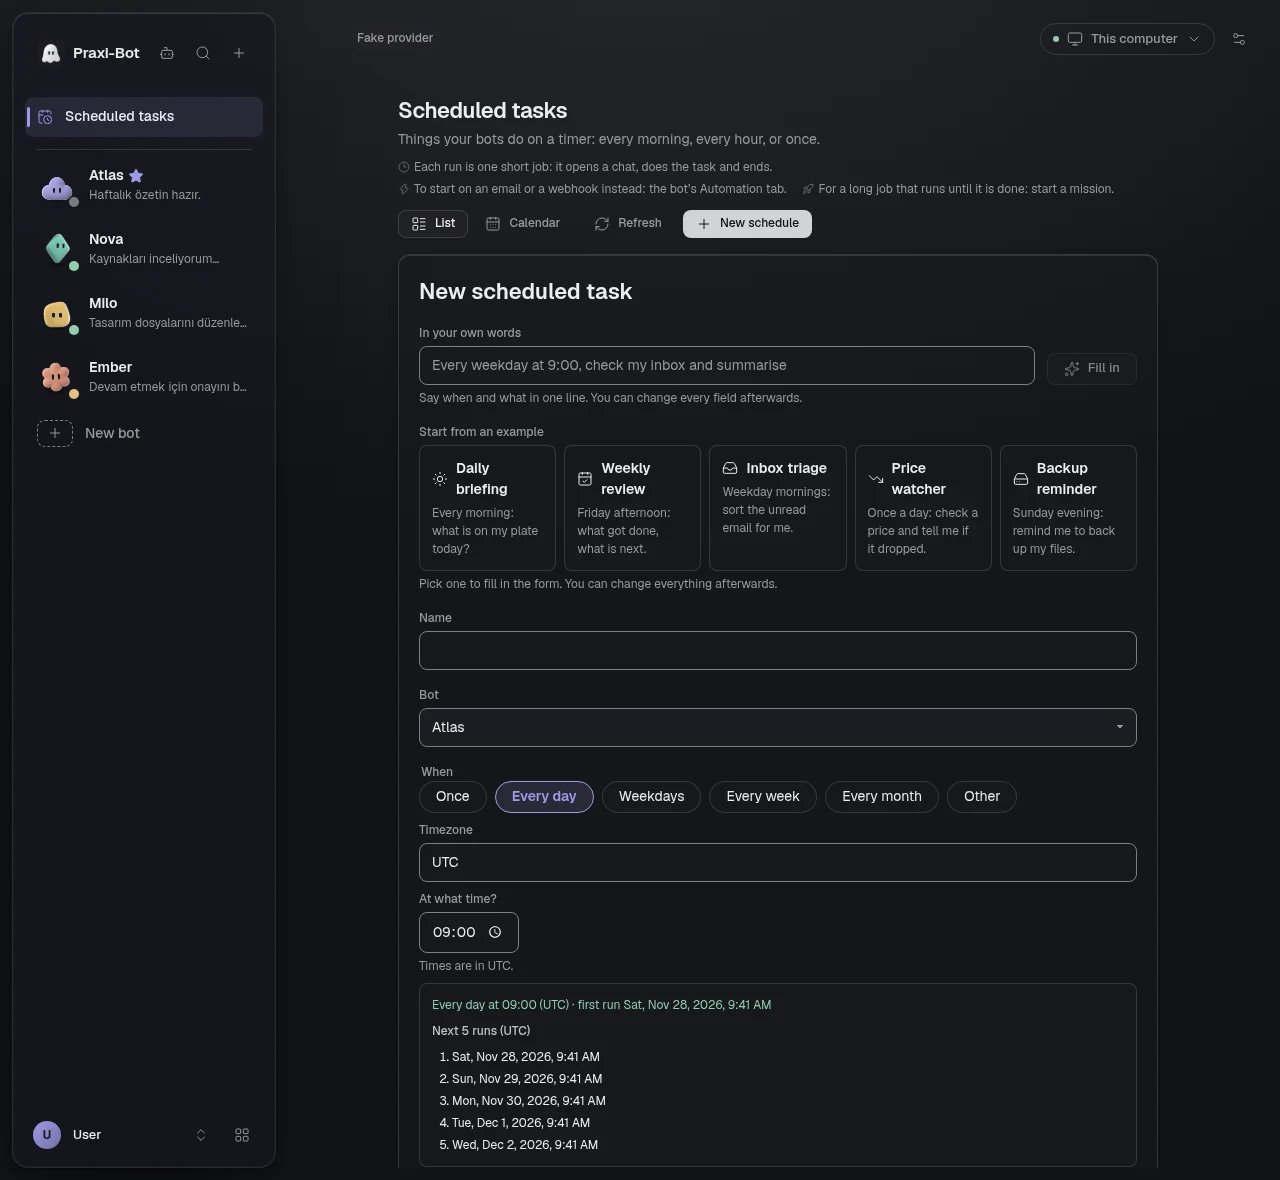
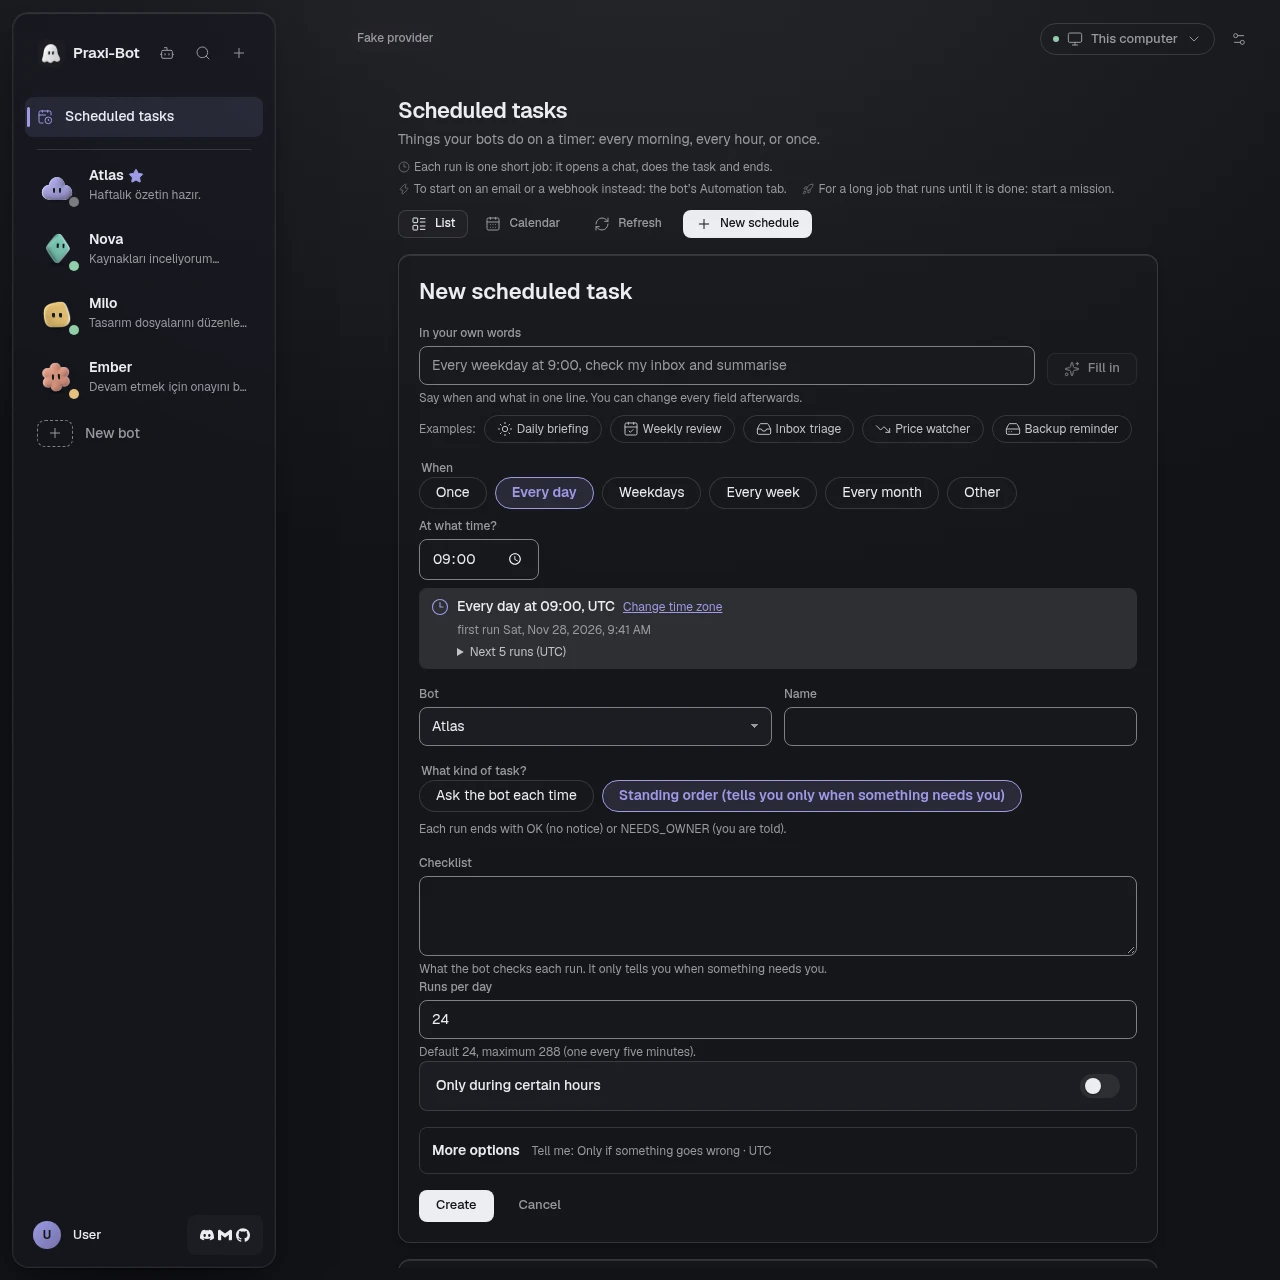
fix(standing-order): close active-hours bypass and align editor validation
Webhooks and non-owner run-now respect standing active hours; only owner run-now may bypass them while the daily cap still applies. UI validation, a11y, and guide screenshots match the backend.

diff --git a/apps/desktop/ui/src/views/SchedulesView.tsx b/apps/desktop/ui/src/views/SchedulesView.tsx
@@ -34,7 +34,7 @@ import type {
   ScheduleHistoryEntry
 } from "../api/types";
 import { EmptyState } from "../components/EmptyState";
-import { Switch } from "../components/SettingsUi";
+import { Switch, SwitchField } from "../components/SettingsUi";
 import formStyles from "../components/Form.module.css";
 import { botHasFullAccess, botView } from "../lib/botProfile";
 import { POLICY_CHANGED_EVENT } from "./settings/SafetyLevelsCard";
@@ -125,13 +125,17 @@ function TimezonePicker({
   value,
   allowEmpty,
   inputRef,
-  onChange
+  onChange,
+  ariaLabel,
+  testId = "schedule-tz"
 }: {
   inputRef?: Ref<HTMLInputElement>;
   value: string;
   /** `true`: an empty field means UTC (a 5-field cron). */
   allowEmpty: boolean;
   onChange: (tz: string) => void;
+  ariaLabel?: string;
+  testId?: string;
 }) {
   const { t } = useTranslation();
   const listId = useId();
@@ -150,10 +154,10 @@ function TimezonePicker({
         value={text}
         spellCheck={false}
         autoComplete="off"
-        aria-label={t("schedules.form.tz")}
+        aria-label={ariaLabel ?? t("schedules.form.tz")}
         aria-invalid={!valid}
         placeholder={t("schedules.form.tzSearch")}
-        data-testid="schedule-tz"
+        data-testid={testId}
         onChange={(e) => {
           setText(e.target.value);
           const v = e.target.value.trim();
@@ -1759,7 +1763,7 @@ function ScheduleForm({
                 <span className={formStyles.hint}>{t("schedules.form.promptHint")}</span>
               </label>
             ) : (
-              <div className={styles.formPair} data-testid="schedule-standing-fields">
+              <div data-testid="schedule-standing-fields">
                 <label className={formStyles.field}>
                   <span className={formStyles.label}>{t("schedules.form.standing.checklist")}</span>
                   <textarea
@@ -1772,41 +1776,36 @@ function ScheduleForm({
                   />
                   <span className={formStyles.hint}>{t("schedules.form.standing.checklistHint")}</span>
                 </label>
-                <div className={styles.formPair}>
-                  <label className={formStyles.field}>
-                    <span className={formStyles.label}>{t("schedules.form.standing.maxRuns")}</span>
-                    <input
-                      className={formStyles.input}
-                      type="number"
-                      min={1}
-                      max={288}
-                      value={draft.standing.maxRunsPerDay}
-                      data-testid="schedule-standing-max-runs"
-                      onChange={(e) =>
-                        patch({
-                          standing: {
-                            ...draft.standing,
-                            maxRunsPerDay: Number(e.target.value)
-                          }
-                        })
-                      }
-                    />
-                    <span className={formStyles.hint}>{t("schedules.form.standing.maxRunsHint")}</span>
-                  </label>
-                  <label className={formStyles.field}>
-                    <span className={formStyles.label}>
-                      <Switch
-                        checked={draft.standing.activeHoursEnabled}
-                        label={t("schedules.form.standing.activeHours")}
-                        onChange={(checked) =>
-                          patch({
-                            standing: { ...draft.standing, activeHoursEnabled: checked }
-                          })
+                <label className={formStyles.field}>
+                  <span className={formStyles.label}>{t("schedules.form.standing.maxRuns")}</span>
+                  <input
+                    className={formStyles.input}
+                    type="number"
+                    min={1}
+                    max={288}
+                    value={draft.standing.maxRunsPerDay}
+                    data-testid="schedule-standing-max-runs"
+                    onChange={(e) =>
+                      patch({
+                        standing: {
+                          ...draft.standing,
+                          maxRunsPerDay: Number(e.target.value)
                         }
-                      />
-                    </span>
-                  </label>
-                </div>
+                      })
+                    }
+                  />
+                  <span className={formStyles.hint}>{t("schedules.form.standing.maxRunsHint")}</span>
+                </label>
+                <SwitchField
+                  checked={draft.standing.activeHoursEnabled}
+                  label={t("schedules.form.standing.activeHours")}
+                  testId="schedule-standing-active-hours"
+                  onChange={(checked) =>
+                    patch({
+                      standing: { ...draft.standing, activeHoursEnabled: checked }
+                    })
+                  }
+                />
                 {draft.standing.activeHoursEnabled ? (
                   <div className={styles.formPair}>
                     <label className={formStyles.field}>
@@ -1844,6 +1843,8 @@ function ScheduleForm({
                       <TimezonePicker
                         value={draft.standing.activeHoursTz}
                         allowEmpty={false}
+                        ariaLabel={t("schedules.form.standing.hoursZone")}
+                        testId="schedule-standing-tz"
                         onChange={(tz) =>
                           patch({ standing: { ...draft.standing, activeHoursTz: tz || LOCAL_TZ } })
                         }

diff --git a/apps/desktop/ui/src/lib/standingOrder.ts b/apps/desktop/ui/src/lib/standingOrder.ts
@@ -1,7 +1,10 @@
 /** Standing-order helpers for the schedule editor (mirrors scheduler payload rules). */
 
+import { isTimeZoneName } from "./schedules.ts";
+
 export const DEFAULT_MAX_RUNS_PER_DAY = 24;
 export const MAX_RUNS_PER_DAY = 288;
+export const MAX_CHECKLIST_CHARS = 4000;
 
 export interface StandingActiveHours {
   start: string;
@@ -70,23 +73,24 @@ export function standingFromPayload(
 }
 
 export function validateStanding(fields: StandingOrderFields): StandingDraftError | null {
-  if (fields.checklist.trim() === "") return "checklist";
+  const checklist = fields.checklist.trim();
+  if (checklist === "") return "checklist";
+  if (checklist.length > MAX_CHECKLIST_CHARS) return "checklist";
   if (
-    !Number.isFinite(fields.maxRunsPerDay) ||
+    !Number.isInteger(fields.maxRunsPerDay) ||
     fields.maxRunsPerDay < 1 ||
     fields.maxRunsPerDay > MAX_RUNS_PER_DAY
   ) {
     return "maxRuns";
   }
   if (!fields.activeHoursEnabled) return null;
-  if (parseHhmm(fields.activeHoursStart) === null) return "hoursStart";
-  if (parseHhmm(fields.activeHoursEnd) === null) return "hoursEnd";
-  if (fields.activeHoursStart === fields.activeHoursEnd) return "hoursEnd";
-  try {
-    new Intl.DateTimeFormat("en", { timeZone: fields.activeHoursTz.trim() });
-  } catch {
-    return "hoursTz";
-  }
+  const start = fields.activeHoursStart.trim();
+  const end = fields.activeHoursEnd.trim();
+  if (parseHhmm(start) === null) return "hoursStart";
+  if (parseHhmm(end) === null) return "hoursEnd";
+  if (start === end) return "hoursEnd";
+  const tz = fields.activeHoursTz.trim();
+  if (tz === "" || !isTimeZoneName(tz)) return "hoursTz";
   return null;
 }
 

diff --git a/apps/desktop/ui/src/lib/standingOrder.test.ts b/apps/desktop/ui/src/lib/standingOrder.test.ts
@@ -4,8 +4,17 @@ import {
   buildStandingPayload,
   DEFAULT_MAX_RUNS_PER_DAY,
   lastStandingVerdict,
+  MAX_CHECKLIST_CHARS,
   validateStanding
 } from "./standingOrder.ts";
+
+const base = {
+  activeHoursEnabled: true,
+  activeHoursStart: "08:00",
+  activeHoursEnd: "22:00",
+  activeHoursTz: "Europe/Istanbul",
+  maxRunsPerDay: DEFAULT_MAX_RUNS_PER_DAY
+};
 
 test("validateStanding accepts a plain checklist and default cap", () => {
   assert.equal(
@@ -36,6 +45,25 @@ test("buildStandingPayload omits active hours when disabled", () => {
     checklist: "check disks",
     max_runs_per_day: 12
   }
+  );
+});
+
+test("validateStanding rejects non-integer caps and long checklists", () => {
+  assert.equal(validateStanding({ ...base, checklist: "ok", maxRunsPerDay: 1.5 }), "maxRuns");
+  assert.equal(
+    validateStanding({ ...base, checklist: "x".repeat(MAX_CHECKLIST_CHARS + 1) }),
+    "checklist"
+  );
+});
+
+test("validateStanding trims times and rejects unknown zones", () => {
+  assert.equal(
+    validateStanding({ ...base, checklist: "ok", activeHoursStart: "08:00 ", activeHoursEnd: "08:00" }),
+    "hoursEnd"
+  );
+  assert.equal(
+    validateStanding({ ...base, checklist: "ok", activeHoursTz: "Nowhere/Land" }),
+    "hoursTz"
   );
 });
 

diff --git a/crates/scheduler/src/standing_tests.rs b/crates/scheduler/src/standing_tests.rs
@@ -958,3 +958,66 @@ async fn a_gated_timer_occurrence_is_not_recorded_as_a_success() {
     assert!(states.iter().all(|st| st == "missed"), "{states:?}");
     scheduler.shutdown().await;
 }
+
+#[tokio::test]
+async fn a_webhook_does_not_bypass_standing_active_hours() {
+    let store = Arc::new(ScheduleStore::open_in_memory().unwrap());
+    let exec = Arc::new(Counting::default());
+    let clock = Arc::new(FakeClock::new(utc_ms(3, 0)));
+    let mut s = Schedule::new(
+        BotId::new(),
+        None,
+        "hook",
+        ScheduleSpec::Every { seconds: 3600 },
+        order(Some(hours("08:00", "22:00", "UTC")), 5),
+        MisfirePolicy::Skip,
+        0,
+    )
+    .unwrap();
+    s.author = ScheduleAuthor::Owner;
+    let id = s.id;
+    store.insert(&s).unwrap();
+    store
+        .set_trigger(id, &Trigger::Webhook { secret: "k".into() })
+        .unwrap();
+    let scheduler = Scheduler::start_with_clock(store.clone(), exec.clone(), clock.clone());
+    let sig = crate::sign_webhook_body("k", b"go");
+    scheduler.trigger_webhook(id, "go", &sig).unwrap();
+    scheduler.settle().await;
+    assert_eq!(*exec.0.lock(), 0);
+    scheduler.shutdown().await;
+}
+
+#[tokio::test]
+async fn run_now_bypasses_hours_only_when_asked_and_the_daily_cap_always_holds() {
+    let store = Arc::new(ScheduleStore::open_in_memory().unwrap());
+    let exec = Arc::new(Counting::default());
+    let clock = Arc::new(FakeClock::new(utc_ms(3, 0)));
+    let mut s = Schedule::new(
+        BotId::new(),
+        None,
+        "now",
+        ScheduleSpec::Every { seconds: 3600 },
+        order(Some(hours("08:00", "22:00", "UTC")), 1),
+        MisfirePolicy::Skip,
+        0,
+    )
+    .unwrap();
+    s.author = ScheduleAuthor::Owner;
+    store.insert(&s).unwrap();
+    let id = s.id;
+    let scheduler = Scheduler::start_with_clock(store.clone(), exec.clone(), clock.clone());
+    // Non-owner-style run-now: outside active hours, nothing runs.
+    scheduler.run_now(id, false).unwrap();
+    scheduler.settle().await;
+    assert_eq!(*exec.0.lock(), 0);
+    // Owner run-now at night: runs once.
+    scheduler.run_now(id, true).unwrap();
+    scheduler.settle().await;
+    assert_eq!(*exec.0.lock(), 1);
+    // Cap still applies even when bypassing hours.
+    scheduler.run_now(id, true).unwrap();
+    scheduler.settle().await;
+    assert_eq!(*exec.0.lock(), 1);
+    scheduler.shutdown().await;
+}

diff --git a/crates/scheduler/src/engine.rs b/crates/scheduler/src/engine.rs
@@ -312,7 +312,7 @@ impl Scheduler {
             return Err(SchedulerError::Busy(id.to_string()));
         };
         self.commit_replay(pending, now_ms)?;
-        spawn_direct_execution(&self.inner, fired, guard);
+        spawn_direct_execution(&self.inner, fired, guard, false);
         Ok(())
     }
 
@@ -337,7 +337,7 @@ impl Scheduler {
     /// # Errors
     /// [`SchedulerError::NotFound`] for an unknown id,
     /// [`SchedulerError::Busy`] while a run of `id` is in flight.
-    pub fn run_now(&self, id: TaskId) -> Result<()> {
+    pub fn run_now(&self, id: TaskId, bypass_standing_hours: bool) -> Result<()> {
         let mut schedule = self
             .inner
             .store
@@ -352,7 +352,7 @@ impl Scheduler {
         let now_ms = self.inner.clock.wall_ms();
         self.inner.store.touch_last_run(id, now_ms)?;
         schedule.last_run_at = Some(now_ms);
-        spawn_direct_execution(&self.inner, schedule, guard);
+        spawn_direct_execution(&self.inner, schedule, guard, bypass_standing_hours);
         Ok(())
     }
 
@@ -721,7 +721,12 @@ fn try_acquire_in_flight(inner: &Arc<Inner>, schedule: &Schedule) -> Option<InFl
     })
 }
 
-fn spawn_direct_execution(inner: &Arc<Inner>, schedule: Schedule, guard: InFlightGuard) {
+fn spawn_direct_execution(
+    inner: &Arc<Inner>,
+    schedule: Schedule,
+    guard: InFlightGuard,
+    bypass_standing_hours: bool,
+) {
     let inner = Arc::clone(inner);
     tokio::spawn(async move {
         let _guard = guard;
@@ -731,7 +736,7 @@ fn spawn_direct_execution(inner: &Arc<Inner>, schedule: Schedule, guard: InFligh
             &schedule,
             None,
             inner.clock.wall_ms(),
-            true,
+            bypass_standing_hours,
         )
         .await
         {

diff --git a/crates/daemon-api/src/routes.rs b/crates/daemon-api/src/routes.rs
@@ -2914,13 +2914,18 @@ pub(crate) async fn delete_schedule(
 pub(crate) async fn run_schedule_now(
     State(s): State<AppState>,
     Path(sid): Path<String>,
+    peer: Option<axum::Extension<crate::peer::PeerIdentity>>,
+    headers: axum::http::HeaderMap,
 ) -> Result<(StatusCode, Json<AcceptedResponse>), ApiError> {
     let sc = schedule_of_user(&s, &sid)?;
     if s.schedule_store()?.frozen_for(sc.id)?.is_some() {
         return Err(scheduler::SchedulerError::Frozen(sc.id.to_string()).into());
     }
+    let bypass_standing_hours =
+        author_of_caller(&s, peer.as_deref(), &headers) == scheduler::ScheduleAuthor::Owner;
     let scheduler = s.scheduler()?;
-    s.leader().with_active(|| scheduler.run_now(sc.id))??;
+    s.leader()
+        .with_active(|| scheduler.run_now(sc.id, bypass_standing_hours))??;
     Ok((
         StatusCode::ACCEPTED,
         Json(AcceptedResponse {

diff --git a/crates/scheduler/src/tests.rs b/crates/scheduler/src/tests.rs
@@ -1296,18 +1296,18 @@ async fn run_now_and_trigger_webhook_return_before_the_execution_ends() {
     let scheduler = Scheduler::start_with_clock(Arc::clone(&store), exec.clone(), clock);
 
     assert!(matches!(
-        scheduler.run_now(TaskId::new()),
+        scheduler.run_now(TaskId::new(), true),
         Err(SchedulerError::NotFound(_))
     ));
     let waiting = entered.notified();
     tokio::pin!(waiting);
     waiting.as_mut().enable();
-    scheduler.run_now(id).unwrap();
+    scheduler.run_now(id, true).unwrap();
     waiting.await;
     assert!(scheduler.is_in_flight(id));
     // Busy while the first one runs, for both entry points.
     assert!(matches!(
-        scheduler.run_now(id),
+        scheduler.run_now(id, true),
         Err(SchedulerError::Busy(_))
     ));
     let sig = sign_webhook_body("k", b"x");

diff --git a/crates/scheduler/src/c225_tests.rs b/crates/scheduler/src/c225_tests.rs
@@ -143,7 +143,7 @@ async fn c225_host_timeout_fails_open_without_waiting_for_unattended_approval() 
     });
     store.insert(&s).unwrap();
     let scheduler = Scheduler::start_with_clock(store, host.clone(), clock);
-    scheduler.run_now(s.id).unwrap();
+    scheduler.run_now(s.id, true).unwrap();
     tokio::task::yield_now().await;
     assert_eq!(host.runs.lock().len(), 0);
     tokio::time::advance(precheck::TIMEOUT).await;

diff --git a/crates/daemon-api/src/tests/host.rs b/crates/daemon-api/src/tests/host.rs
@@ -114,7 +114,7 @@ async fn standby_blocks_fake_clock_ticks_and_activation_restarts_components() {
         .list_runs(t.state.user_id())
         .unwrap()
         .len();
-    scheduler.run_now(schedule.id).unwrap();
+    scheduler.run_now(schedule.id, true).unwrap();
     scheduler.settle().await;
     assert_eq!(
         t.state
